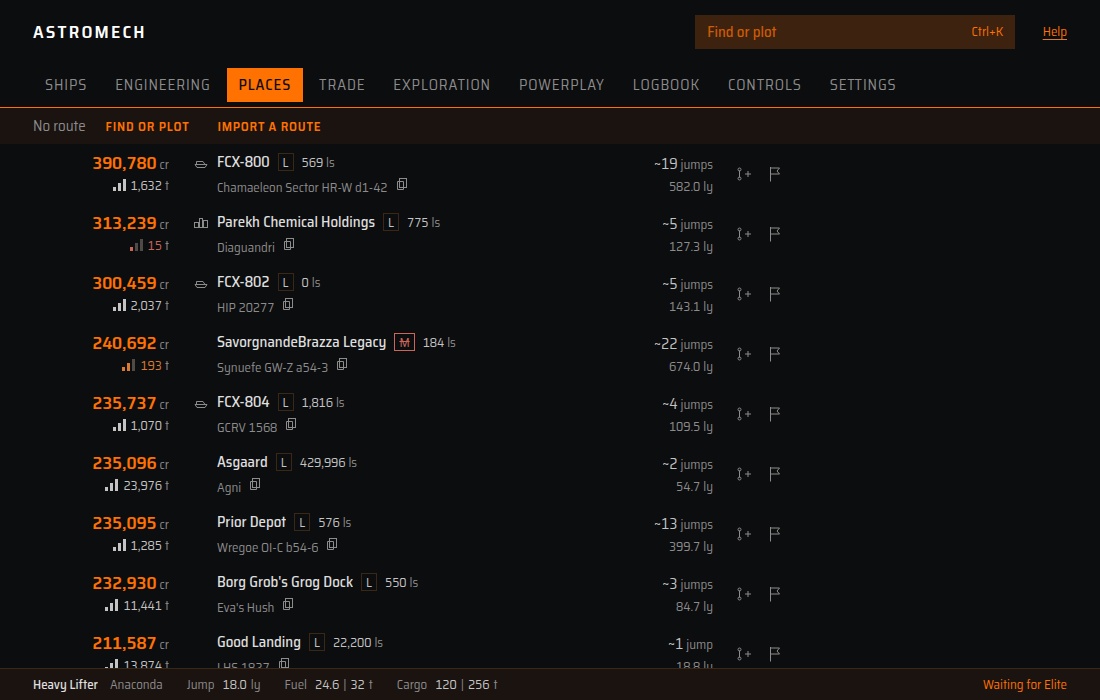
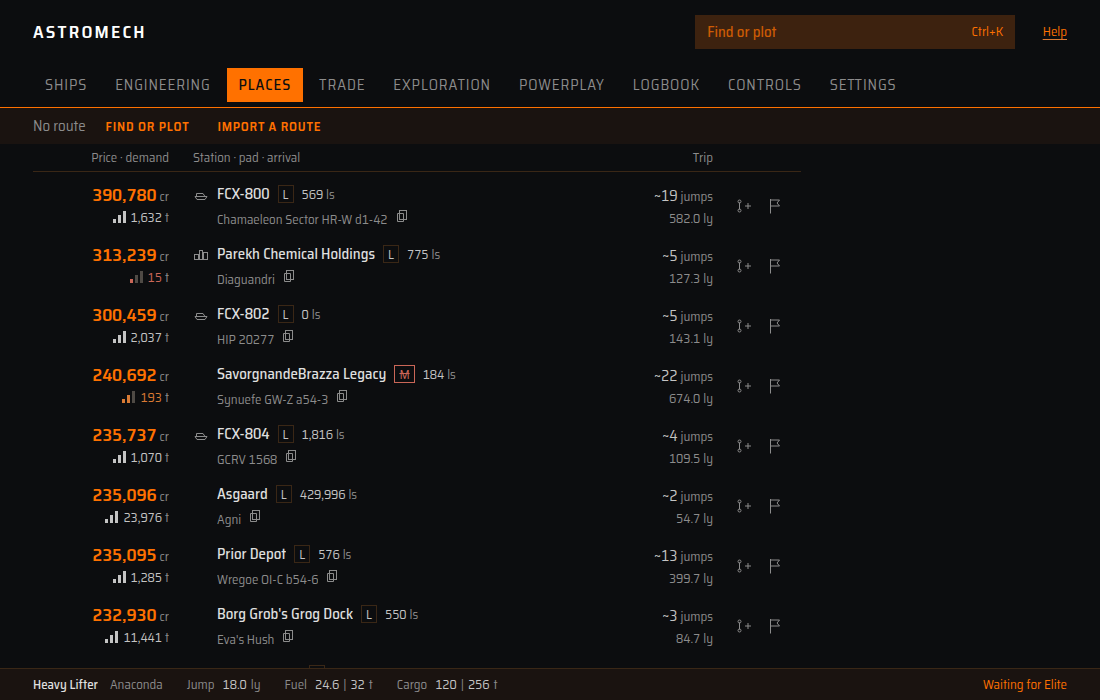
Increment 2 checkpoint: rows counted with the list's head in view; report covers every capture and the blocked rebuilds

diff --git a/.atelier/items/astromech-8e22/item.md b/.atelier/items/astromech-8e22/item.md
@@ -50,7 +50,7 @@ Mission astromech-xajc. This checkpoint does not stop the mission: the screens s
 
 ## Report
 
-**Increment 2 mostly holds together, but five pages fail a check and are filed as bugs.** The frame, the colours and the new tabs hold at all four sizes. Five pages cut text, put an action far from its row, or draw text too small: Powerplay, Engineers, Suits, Ships and My controller. The bugs are astromech-lf3a, vbz3, 8og8, 5g9w and wo8s, all on main. This item says each failure is fixed before it closes, so the second Done when line stays open until they merge and the captures are taken again.
+**Increment 2 mostly holds together, but five pages fail a check, and this item now holds twelve screen items behind five fixes.** The frame, the colours and the new tabs hold at all four sizes. Five pages cut text, put an action far from its row, or draw text too small: Powerplay, Engineers, Suits, Ships and My controller. The bugs are astromech-lf3a, vbz3, 8og8, 5g9w and wo8s, all on main. This item says each failure is fixed before it closes, so the second Done when line stays open until they merge and the captures are taken again. The bugs are drafts that the lead has to make ready. astromech-rj6i, nnn0 and 8wr4 would rebuild Powerplay, Suits and Ships, but they wait on this item. So the lead either has those three fixed on the current pages, or amends this item to hand their cases to the rebuilds.
 
 **Captures.** There are 35 captures in `docs/design/increment2/`, taken in headless Chrome at device scale 1 from `pnpm dev` with `?core=ready&route=exact&textsize=<step>`:
 
@@ -85,13 +85,13 @@ DESIGN.md marks Grey Dim, Orange Dim and Placeholder as state rather than text t
 
 By eye, five pages fail:
 
-- **Powerplay (astromech-lf3a, caused by uc7i).** At 1920 x 1080 beside the docked sidebar, This system's name and every Where to work system and state end in "...". One state is still cut at 3840 x 2160.
+- **Powerplay (astromech-lf3a, caused by uc7i).** At 1920 x 1080 beside the docked sidebar, This system's name and every Where to work system and state end in "...". At 3840 x 2160 one system and two states are still cut. At 2560 x 1440, Where to work sits under My standing and nothing is cut.
 - **Engineers (astromech-vbz3, caused by 7did).** Mel Brandon's step left to unlock ("Introduction from Elvira Martuuk: raise your rank with them past ...") is cut at every size. The full text is only in a Tip.
 - **Suits (astromech-8og8).** Plan blocks run the full column width, so Remove is about 1,100 layout px from its plan's name at 2560 and about 1,650 at 3840. The shopping list spreads its columns the same way. The 360 px check misses this because the blocks are not rows; the 3840 capture shows it.
 - **Ships (astromech-5g9w).** Open in Coriolis and EDSY sit about 1,000 layout px from the ship's name at 2560 and further at 3840. The stat bands stretch too.
 - **My controller (astromech-wo8s, low).** At 1100 x 700 the sheet's bound actions draw at 8 px. The sheet scales with its width, not with Text size, so it reads at 14 px at 1920 and 18 px at 2560. Those two sizes show up in `small` only because the check divides by the step. This predates increment 2.
 
-astromech-rj6i, nnn0 and 8wr4 rebuild Powerplay, Suits and Ships. Each bug says it can close as covered if the rebuild lands first and keeps the rule.
+Judged and not filed: on Engineers, Set destination ends the nearest-to-unlock card about 620 layout px right of "Wyrd 75.5 ly", at every size. The card is the list's width and does not grow with the window, and the button acts on the card's engineer, as a side panel's actions do. Every capture was opened by eye at 1100 and 3840, and every page at 2560.
 
 **Brightness.** No page has something out-shining its main value, what can change, or what needs the commander, so nothing was filed:
 
@@ -116,11 +116,11 @@ astromech-rj6i, nnn0 and 8wr4 rebuild Powerplay, Suits and Ships. Each bug says 
 
 - **Header.** It is 108 px (stacked) at 1100 x 700 and 64 px at the other three sizes. One row measured from 1529, 2216 and 2750 px at 100, 145 and 180 percent, by binary search on fresh loads. DESIGN.md has 2751 at 180, which is within rounding of 95.5 rem, so I left it.
 - **Dock width.** The sidebar is a strip at 1100 and docked at 1920, 2560 and 3840. It docks from 1659, 2406 and 2987 px (1659 at 100 percent), as DOCK says.
-- **Rows visible.** These did not match, and DESIGN.md is corrected. On opening, 5 rows show at 1100 and 11 at 2560, as written. Scrolled, the captures show 8 at 1100, in a 524 px column of 60 px rows, not 7. At 2560 they give 14 (897 px column) where DESIGN.md had 13. The 2560 sample's 12 rows all fit, so 14 is worked out from the column's height.
+- **Rows visible.** These did not match, and DESIGN.md is corrected. On opening, 5 rows show at 1100 and 11 at 2560, as written. Scrolled with the list's head row still in view, the captures show 8 at 1100, in a 524 px column of 60 px rows, not 7. At 2560 they give 14 (897 px column) where DESIGN.md had 13. The 2560 sample's 12 rows all fit, so 14 is worked out from the column's height. astromech-3ca6 counted 7 and 13 before the route sidebar and strip changed the frame, and astromech-fom5 re-measured only the opening counts.
 
 **Links.** Both are built with `scripts/preview-publish --query route=exact` and checked to open on their page:
 
 - Sell finder: https://claude.ai/artifact/QNYTRUABGUvbUkhYyEfsEb
 - Engineers with "laser": https://claude.ai/artifact/2As2BUSDRzaNU8F7mgDJGB
 
-They are recorded with the capture paths as a `[note]` in `.atelier/missions/astromech-xajc/notes.md`. Both are private until shared.
+They are recorded with the capture paths as a `[note]` in `.atelier/missions/astromech-xajc/notes.md`, which reaches main when this item merges. Both are private until shared.
